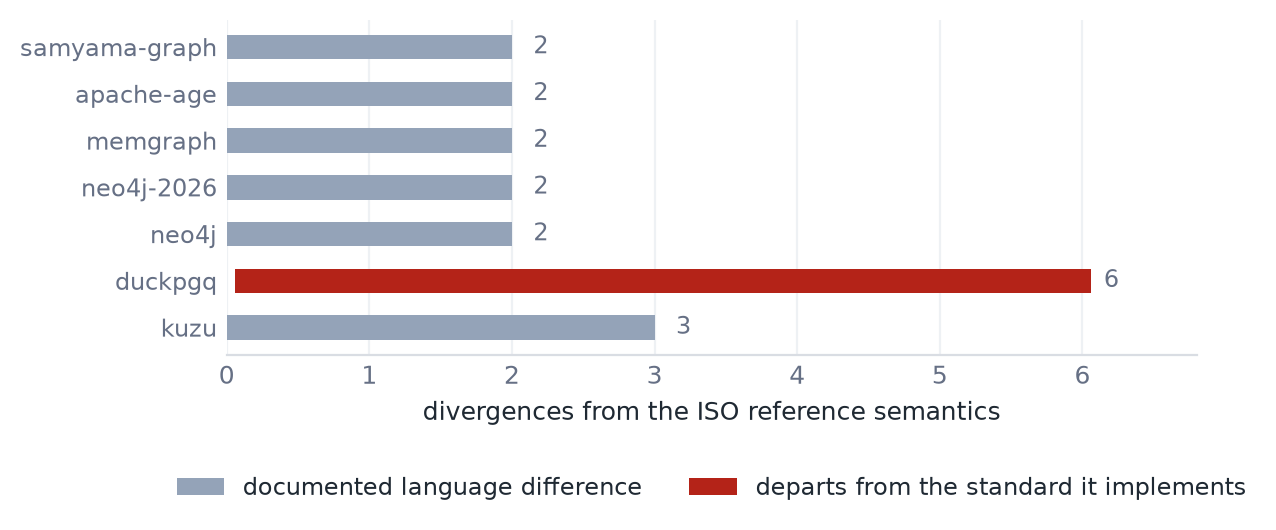
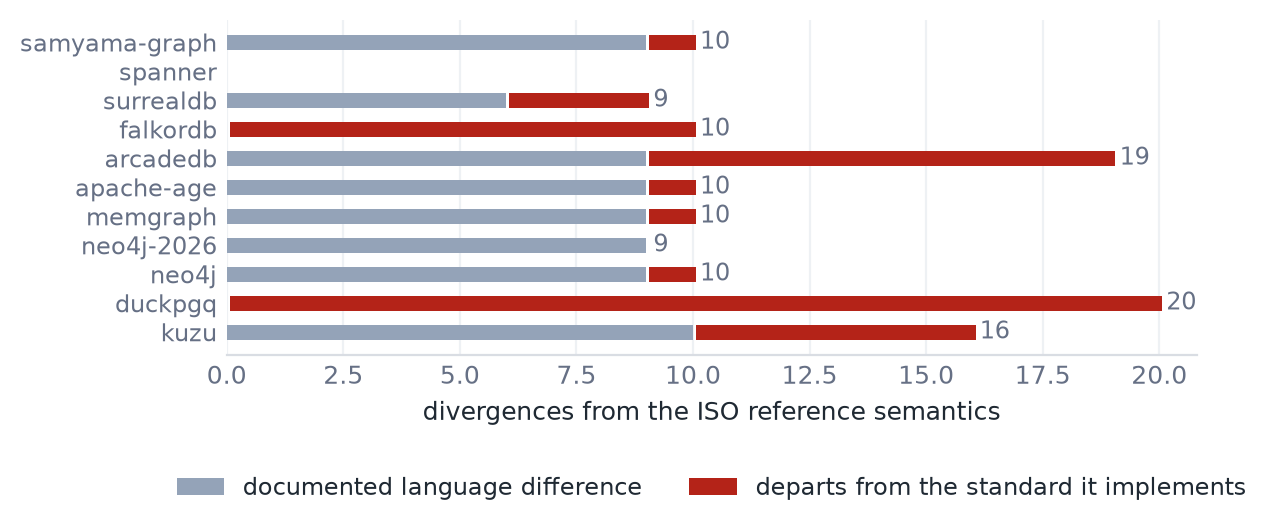
Generate the paper's numbers, tables and the silence figure
tools/paper_numbers.py emits every number the paper quotes as a LaTeX macro,
plus the per-engine results table and the G1 grid table, from
results/summary.json. The manuscript contains no typed number. A typed number
is a second copy of a measurement, and two copies drift.

figures.py gains fig4_silence: two panels sharing the engine axis, one for
what each engine returned and one for how much of its disagreement was silent.
Two panels rather than two y-axes, because a count and a ratio do not belong
on one frame. The mechanism reads straight off the pairing: every engine with
no reject segment sits at S2 = 1.00, and the engine with the largest reject
segment diverges on nothing.

The status palette was re-validated: the three informative hues pass all six
checks (worst adjacent CVD dE 8.7 deutan, 26.8 normal), and the fourth slot is
a deliberate neutral for absent, carried with a glyph and a legend entry.

Claude-Session: https://claude.ai/code/session_01R43GGTTkxPJ3JwfK2ubn5m

diff --git a/tools/paper_numbers.py b/tools/paper_numbers.py
@@ -1,0 +1,245 @@
+#!/usr/bin/env python3
+"""Emit every number the paper quotes as a LaTeX macro.
+
+The paper must not contain a typed number. A typed number is a second copy of a
+measurement, and the two drift -- which is how a README came to claim 5.2 s for a run
+its own linked CSV recorded as 10,250.2 ms. Here the paper says \\nCells and this file
+says what \\nCells is, from results/summary.json, which src/summarise.py writes from
+results/map.json, which the runner writes from the engines.
+
+Usage:  python3 tools/paper_numbers.py [--out path/to/numbers.tex]
+"""
+from __future__ import annotations
+
+import argparse
+import json
+import os
+import sys
+
+HERE = os.path.dirname(os.path.dirname(os.path.abspath(__file__)))
+
+
+def fmt(x):
+    if isinstance(x, float):
+        # Always two places. A ratio printed as 0.4 next to one printed as 0.26 reads
+        # as a different precision, and the reader has to decide which is rounded.
+        return f"{x:.2f}"
+    if isinstance(x, int) and abs(x) >= 10000:
+        return f"{x:,}"
+    return str(x)
+
+
+def main() -> int:
+    ap = argparse.ArgumentParser()
+    ap.add_argument("--out", default=os.path.join(HERE, "paper", "numbers.tex"))
+    args = ap.parse_args()
+
+    S = json.load(open(os.path.join(HERE, "results", "summary.json")))
+    M = json.load(open(os.path.join(HERE, "results", "map.json")))
+    MM = json.load(open(os.path.join(HERE, "results", "metamorphic.json")))
+    sep = S.get("s6_separation") or {}
+    agg = S["aggregates"]
+    hl = agg["headline_newest_per_product"]
+
+    acc = {}
+    answer_groups = {g for g in S["by_group"]}
+    for c in M["cells"]:
+        if c.get("expect", "ANSWER") != "ANSWER":
+            continue
+        acc.setdefault(c["engine"], {}).setdefault(c["verdict"], 0)
+        acc[c["engine"]][c["verdict"]] += 1
+
+    def s2(e):
+        a = acc.get(e, {})
+        den = a.get("DIVERGES", 0) + a.get("REJECTS", 0)
+        return a.get("DIVERGES", 0) / den if den else None
+
+    silent = [e for e in acc if s2(e) == 1.0]
+    visible = [e for e in acc if s2(e) == 0.0]
+
+    m = {
+        "nConstructs": S["n_constructs"],
+        "nConstructsVone": S["constructs_by_group"].get("v1"),
+        "nEngines": S["n_engines"],
+        "nEnginesExternal": S["n_engines_external"],
+        "nCells": S["n_cells"],
+        "nRepeats": S["repeats"],
+        "nProducts": len({e["name"].replace("-2026", "") for e in M["engines"]}),
+        "sOne": hl["s1"],
+        "sTwo": hl["s2"],
+        "sOneVoneRepro": agg["v1_constructs_v1_engines"]["s1"],
+        "sTwoVoneRepro": agg["v1_constructs_v1_engines"]["s2"],
+        "sOneVoneAllEng": agg["v1_constructs_all_engines"]["s1"],
+        "sTwoVoneAllEng": agg["v1_constructs_all_engines"]["s2"],
+        "sOneAllCaseVoneEng": agg["all_constructs_v1_engines"]["s1"],
+        "sTwoAllCaseVoneEng": agg["all_constructs_v1_engines"]["s2"],
+        "nConforms": S["conforms"],
+        "nDiverges": S["diverges"],
+        "nRejects": S["rejects"],
+        "nInexpressible": S["inexpressible"],
+        "nDisagreements": S["disagreements"],
+        "nSpecified": S["divergences_specified"],
+        "nDefect": S["divergences_defect"],
+        "nMultiClass": S["constructs_multi_class"],
+        "nSingleClass": S["constructs_single_class"],
+        "nMetamorphic": len(MM["violations"]),
+        "nSilentEngines": len(silent),
+        "nVisibleEngines": len(visible),
+        "silentEngineList": ", ".join(sorted(silent)),
+        "sepCombos": sep.get("combinations"),
+        "sepClasses": sep.get("observable_classes"),
+        "sepPairs": sep.get("pairs"),
+        "sepSeparated": sep.get("pairs_separated"),
+        "sepUnseparated": (sep.get("pairs", 0) - sep.get("pairs_separated", 0)),
+        "sepGraphs": sep.get("sweep", {}).get("graphs_enumerated"),
+        "sepProbes": sep.get("sweep", {}).get("pattern_probes"),
+    }
+    # LaTeX macro names are letters only, so a group called G1 cannot be \groupG1.
+    WORD = {"0": "Zero", "1": "One", "2": "Two", "3": "Three", "4": "Four",
+            "5": "Five", "6": "Six", "7": "Seven", "8": "Eight", "9": "Nine"}
+    for g, v in S["by_group"].items():
+        name = "".join(WORD.get(ch, ch) for ch in g)
+        m[f"group{name}Constructs"] = v["constructs"]
+    # S4: how many engines were askable, and how many refused every ill-formed pattern
+    s4 = S["s4_wellformedness"]
+    askable = [e for e, v in s4.items() if v["refused"] + v["answered"] > 0]
+    allrefused = [e for e in askable if s4[e]["answered"] == 0]
+    m["nWellformedAskable"] = len(askable)
+    m["nWellformedEnforced"] = len(allrefused)
+    m["wellformedOffenders"] = ", ".join(sorted(set(askable) - set(allrefused))) or "none"
+    # S5: engines that answer two spellings of one quantifier differently
+    s5 = S["s5_spelling_agreement"]
+    star_key = next((k for k in next(iter(s5.values())) if "star" in k), None)
+    differ = [e for e, v in s5.items() if star_key and v.get(star_key) is False]
+    same = [e for e, v in s5.items() if star_key and v.get(star_key) is True]
+    m["nStarDiffer"] = len(differ)
+    m["nStarSame"] = len(same)
+    m["nStarAsked"] = len(differ) + len(same)
+
+    # How often the standard's own composition -- a restrictor and a selector in one
+    # pattern, which Sec. 5.1 explicitly orders -- was asked and answered. A query
+    # counts only if the text sent actually carried both keywords; the openCypher
+    # ALL SHORTEST rewrite names no restrictor and is not the composition.
+    combo_asked = combo_answered = 0
+    combo_engines = set()
+    for c in M["cells"]:
+        if not c["case"].startswith("g1-"):
+            continue
+        parts = c["case"].split("-")
+        if parts[2] == "walk" or "-".join(parts[3:]) == "all":
+            continue
+        q = c.get("query") or ""
+        if not (any(k in q for k in ("TRAIL", "ACYCLIC", "SIMPLE"))
+                and any(k in q for k in (" ANY", " ALL SHORTEST", "ANY SHORTEST"))):
+            continue
+        combo_asked += 1
+        if c["verdict"] in ("CONFORMS", "DIVERGES"):
+            combo_answered += 1
+            combo_engines.add(c["engine"])
+    m["nComboAsked"] = combo_asked
+    m["nComboAnswered"] = combo_answered
+    m["nComboEngines"] = len(combo_engines)
+
+    # The per-engine table, generated for the same reason the macros are: a table of
+    # eleven rows retyped into a manuscript is eleven chances for a number to drift.
+    PRETTY = {"kuzu": "K\\`uzu", "duckpgq": "DuckPGQ", "neo4j": "Neo4j",
+              "neo4j-2026": "Neo4j", "memgraph": "Memgraph", "apache-age": "Apache AGE",
+              "arcadedb": "ArcadeDB", "falkordb": "FalkorDB", "surrealdb": "SurrealDB",
+              "spanner": "Spanner Graph", "samyama-graph": "Samyama-Graph"}
+    OURS, SUPERSEDED = {"samyama-graph"}, {"neo4j"}
+    s4m = S["s4_wellformedness"]
+    rows = []
+    for e in [x["name"] for x in M["engines"]]:
+        a = acc.get(e, {})
+        ver = next(x["version"] for x in M["engines"] if x["name"] == e)
+        ver = ver.split(" (build")[0].replace("Neo4j Kernel ", "").replace("Memgraph ", "")
+        ver = ver.replace("age ", "").replace("falkordb ", "redis ")
+        ver = ver.replace("cloud-spanner-emulator ", "emulator ")
+        ver = ver.replace("surrealdb-", "").replace("samyama ", "")
+        den = a.get("DIVERGES", 0) + a.get("REJECTS", 0)
+        ans = a.get("CONFORMS", 0) + a.get("DIVERGES", 0)
+        s1v = f"{a.get('DIVERGES',0)/ans:.2f}" if ans else "---"
+        s2v = f"{a.get('DIVERGES',0)/den:.2f}" if den else "---"
+        g4 = s4m.get(e, {})
+        ask = g4.get("refused", 0) + g4.get("answered", 0)
+        ill = f"{g4.get('refused',0)}/{ask}" if ask else "---"
+        rows.append((e, PRETTY.get(e, e), ver, a.get("CONFORMS", 0),
+                     a.get("DIVERGES", 0), a.get("REJECTS", 0),
+                     a.get("INEXPRESSIBLE", 0), s1v, s2v, ill))
+    tpath = os.path.join(os.path.dirname(args.out), "table_s1s2.tex")
+    with open(tpath, "w") as f:
+        f.write("% Generated by tools/paper_numbers.py. Do not edit.\n")
+        f.write("\\begin{tabular}{@{}llrrrrrrr@{}}\n\\toprule\n")
+        f.write("engine & version & conf. & div. & rej. & inexpr. & $S_1$ & $S_2$ & "
+                "ill-formed \\\\\n\\midrule\n")
+        for e, pretty, ver, c, d, r, i, s1v, s2v, ill in rows:
+            if e in OURS:
+                continue
+            em = "\\itshape " if e in SUPERSEDED else ""
+            f.write(f"{em}{pretty} & {em}{ver} & {em}{c} & {em}{d} & {em}{r} & "
+                    f"{em}{i} & {em}{s1v} & {em}{s2v} & {em}{ill} \\\\\n")
+        f.write("\\midrule\n")
+        f.write(f"headline$^{{\\ast}}$ & & {hl['conforms']} & {hl['diverges']} & "
+                f"{hl['rejects']} & {hl['inexpressible']} & "
+                f"\\textbf{{{hl['s1']:.2f}}} & \\textbf{{{hl['s2']:.2f}}} & \\\\\n")
+        f.write("\\midrule\n")
+        for e, pretty, ver, c, d, r, i, s1v, s2v, ill in rows:
+            if e not in OURS:
+                continue
+            f.write(f"\\itshape {pretty}$^{{\\ddagger}}$ & \\itshape {ver} & "
+                    f"\\itshape {c} & \\itshape {d} & \\itshape {r} & "
+                    f"\\itshape {i} & \\itshape {s1v} & \\itshape {s2v} & "
+                    f"\\itshape {ill} \\\\\n")
+        f.write("\\bottomrule\n\\end{tabular}\n")
+    print(f"wrote {tpath}: {len(rows)} rows")
+
+    # The G1 grid, one table: every restrictor against every selector, on the bed
+    # derived by tools/choose_beds.py. This is the part of the map a reader can check
+    # against the standard line by line.
+    SYM = {"CONFORMS": "$\\checkmark$", "DIVERGES": "$\\times$",
+           "REJECTS": "!", "INEXPRESSIBLE": "--", "NONDETERMINISTIC": "?"}
+    SHORT = {"kuzu": "K\\`u", "duckpgq": "DPQ", "neo4j": "N5", "neo4j-2026": "N26",
+             "memgraph": "MG", "apache-age": "AGE", "arcadedb": "ARC",
+             "falkordb": "FLK", "surrealdb": "SUR", "spanner": "SPN",
+             "samyama-graph": "SG"}
+    eng_order = [x["name"] for x in M["engines"]]
+    cell = {(c["case"], c["engine"]): c["verdict"] for c in M["cells"]}
+    grid_rows = []
+    for r in ("walk", "trail", "acyclic", "simple"):
+        for sel in ("all", "any", "all-shortest", "any-shortest"):
+            cid = f"g1-fig1-{r}-{sel}"
+            if (cid, eng_order[0]) not in cell:
+                continue
+            grid_rows.append((r.upper(), sel.replace("-", " ").upper(),
+                              [SYM[cell[(cid, e)]] for e in eng_order]))
+    gpath = os.path.join(os.path.dirname(args.out), "table_grid.tex")
+    with open(gpath, "w") as f:
+        f.write("% Generated by tools/paper_numbers.py. Do not edit.\n")
+        f.write("\\begin{tabular}{@{}ll" + "c" * len(eng_order) + "@{}}\n\\toprule\n")
+        f.write("mode & selector & " +
+                " & ".join(SHORT.get(e, e) for e in eng_order) + " \\\\\n\\midrule\n")
+        last = None
+        for mode, sel, cells in grid_rows:
+            if last is not None and mode != last:
+                f.write("\\addlinespace[2pt]\n")
+            f.write(f"{mode if mode != last else ''} & {sel} & " +
+                    " & ".join(cells) + " \\\\\n")
+            last = mode
+        f.write("\\bottomrule\n\\end{tabular}\n")
+    print(f"wrote {gpath}: {len(grid_rows)} rows")
+
+    os.makedirs(os.path.dirname(args.out), exist_ok=True)
+    with open(args.out, "w") as f:
+        f.write("% Generated by tools/paper_numbers.py. Do not edit.\n")
+        f.write("% Every number the paper quotes resolves here, and here resolves to\n")
+        f.write("% results/summary.json. A typed number in the manuscript is a bug.\n")
+        for k, v in m.items():
+            if v is None:
+                continue
+            f.write(f"\\newcommand{{\\{k}}}{{{fmt(v)}}}\n")
+    print(f"wrote {args.out}: {sum(1 for v in m.values() if v is not None)} macros")
+    return 0
+
+
+if __name__ == "__main__":
+    sys.exit(main())

diff --git a/src/figures.py b/src/figures.py
@@ -156,11 +156,106 @@ def fig_metamorphic(mm, m, path):
     plt.close(fig)
 
 
-if __name__ == "__main__":
+
+
+def fig_silence(m, path):
+    """Two panels sharing the engine axis: what each engine returned, and how much of
+    its disagreement was silent.
+
+    Two measures on different scales, so two panels rather than two y-axes. The left
+    panel is composition in cells; the right is a ratio in [0,1]. A dual axis would put
+    them on one frame and invite the reader to compare a count against a fraction.
+
+    Population: the cells where an answer is the thing being compared. The
+    well-formedness and spelling groups ask a different question, where a rejection can
+    be the conforming act, so folding them in would put two questions behind one bar.
+    """
+    from suite_all import CASES as _CASES
+    answer_cases = {c.id for c in _CASES if c.expect == "ANSWER"}
+    engines = [e["name"] for e in m["engines"]]
+    acc = {e: Counter() for e in engines}
+    for c in m["cells"]:
+        if c["case"] in answer_cases:
+            acc[c["engine"]][c["verdict"]] += 1
+
+    order = ["CONFORMS", "DIVERGES", "REJECTS", "INEXPRESSIBLE"]
+    rows = sorted(engines, key=lambda e: _silence(acc[e]) if _silence(acc[e]) is not None else -1)
+
+    fig, (axL, axR) = plt.subplots(
+        1, 2, figsize=(11.6, 0.42 * len(rows) + 1.9),
+        gridspec_kw={"width_ratios": [2.4, 1]})
+
+    for i, e in enumerate(rows):
+        x = 0
+        for v in order:
+            n = acc[e][v]
+            if not n:
+                continue
+            # 2px surface gap between segments, as between the map's cells.
+            axL.add_patch(plt.Rectangle((x + 0.6, i - 0.33), max(n - 1.2, 0.4), 0.66,
+                                        facecolor=COLOR[v], edgecolor="none"))
+            if n >= 7:
+                axL.text(x + n / 2, i, f"{GLYPH[v]} {n}", ha="center", va="center",
+                         color="white" if v != "INEXPRESSIBLE" else "#4A5260",
+                         fontsize=8.5, fontweight="bold")
+            x += n
+    axL.set_xlim(0, max(sum(acc[e].values()) for e in rows) * 1.02)
+    axL.set_ylim(-0.7, len(rows) - 0.3)
+    axL.set_yticks(range(len(rows)))
+    axL.set_yticklabels(rows, fontsize=9)
+    axL.set_xlabel("cells", fontsize=9)
+    axL.set_title("what the engine returned", fontsize=10, loc="left", color=INK)
+    for sp in ("top", "right", "left"):
+        axL.spines[sp].set_visible(False)
+    axL.grid(axis="x", color="#EEF1F4", linewidth=0.8)
+    axL.set_axisbelow(True)
+
+    for i, e in enumerate(rows):
+        s = _silence(acc[e])
+        if s is None:
+            axR.text(0.02, i, "no disagreement", va="center", fontsize=8.5, color=MUTED)
+            continue
+        axR.add_patch(plt.Rectangle((0, i - 0.33), s, 0.66,
+                                    facecolor=DIVERGES, edgecolor="none"))
+        axR.text(s + 0.03 if s < 0.8 else s - 0.03, i, f"{s:.2f}",
+                 va="center", ha="left" if s < 0.8 else "right",
+                 fontsize=8.5, fontweight="bold",
+                 color=INK if s < 0.8 else "white")
+    axR.set_xlim(0, 1.08)
+    axR.set_ylim(-0.7, len(rows) - 0.3)
+    axR.set_yticks([])
+    axR.set_xlabel("silence ratio $S_2$", fontsize=9)
+    axR.set_title("how much of it was silent", fontsize=10, loc="left", color=INK)
+    for sp in ("top", "right", "left"):
+        axR.spines[sp].set_visible(False)
+    axR.grid(axis="x", color="#EEF1F4", linewidth=0.8)
+    axR.set_axisbelow(True)
+
+    fig.legend(handles=[Patch(facecolor=COLOR[v], label=f"{GLYPH[v]}  {v.lower()}")
+                        for v in order],
+               loc="lower center", ncol=4, frameon=False, fontsize=9,
+               bbox_to_anchor=(0.5, -0.02))
+    fig.tight_layout(rect=(0, 0.05, 1, 1))
+    fig.savefig(os.path.join(path, "fig4_silence.png"), dpi=200,
+                bbox_inches="tight", facecolor="white")
+    plt.close(fig)
+
+
+def _silence(c):
+    den = c["DIVERGES"] + c["REJECTS"]
+    return c["DIVERGES"] / den if den else None
+
+
+def main():
     m, mm = load()
     outdir = sys.argv[1] if len(sys.argv) > 1 else os.path.join(HERE, "figures")
     os.makedirs(outdir, exist_ok=True)
     fig_map(m, os.path.join(outdir, "fig1_map.png"))
     fig_attribution(m, os.path.join(outdir, "fig2_attribution.png"))
     fig_metamorphic(mm, m, os.path.join(outdir, "fig3_metamorphic.png"))
+    fig_silence(m, outdir)
     print("wrote", outdir)
+
+
+if __name__ == "__main__":
+    main()
